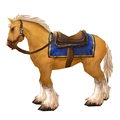
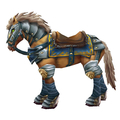
Added more mounts

diff --git a/js/main.js b/js/main.js
@@ -7,7 +7,7 @@ function loadGame() {
 }
 
 function addMount() {
-    let id = getRandomInt(6);
+    let id = getRandomInt(m.length - 1);
     const mount = m[id];
     if (!collection.includes(mount)) {
         collection.push(mount);

diff --git a/js/mounts.js b/js/mounts.js
@@ -7,7 +7,7 @@ const r = {
 };
 
 let m = [];
-fetch('../mounts.csv')
+fetch('./mounts.csv')
     .then(response => response.text())
     .then(csvText => {
 
